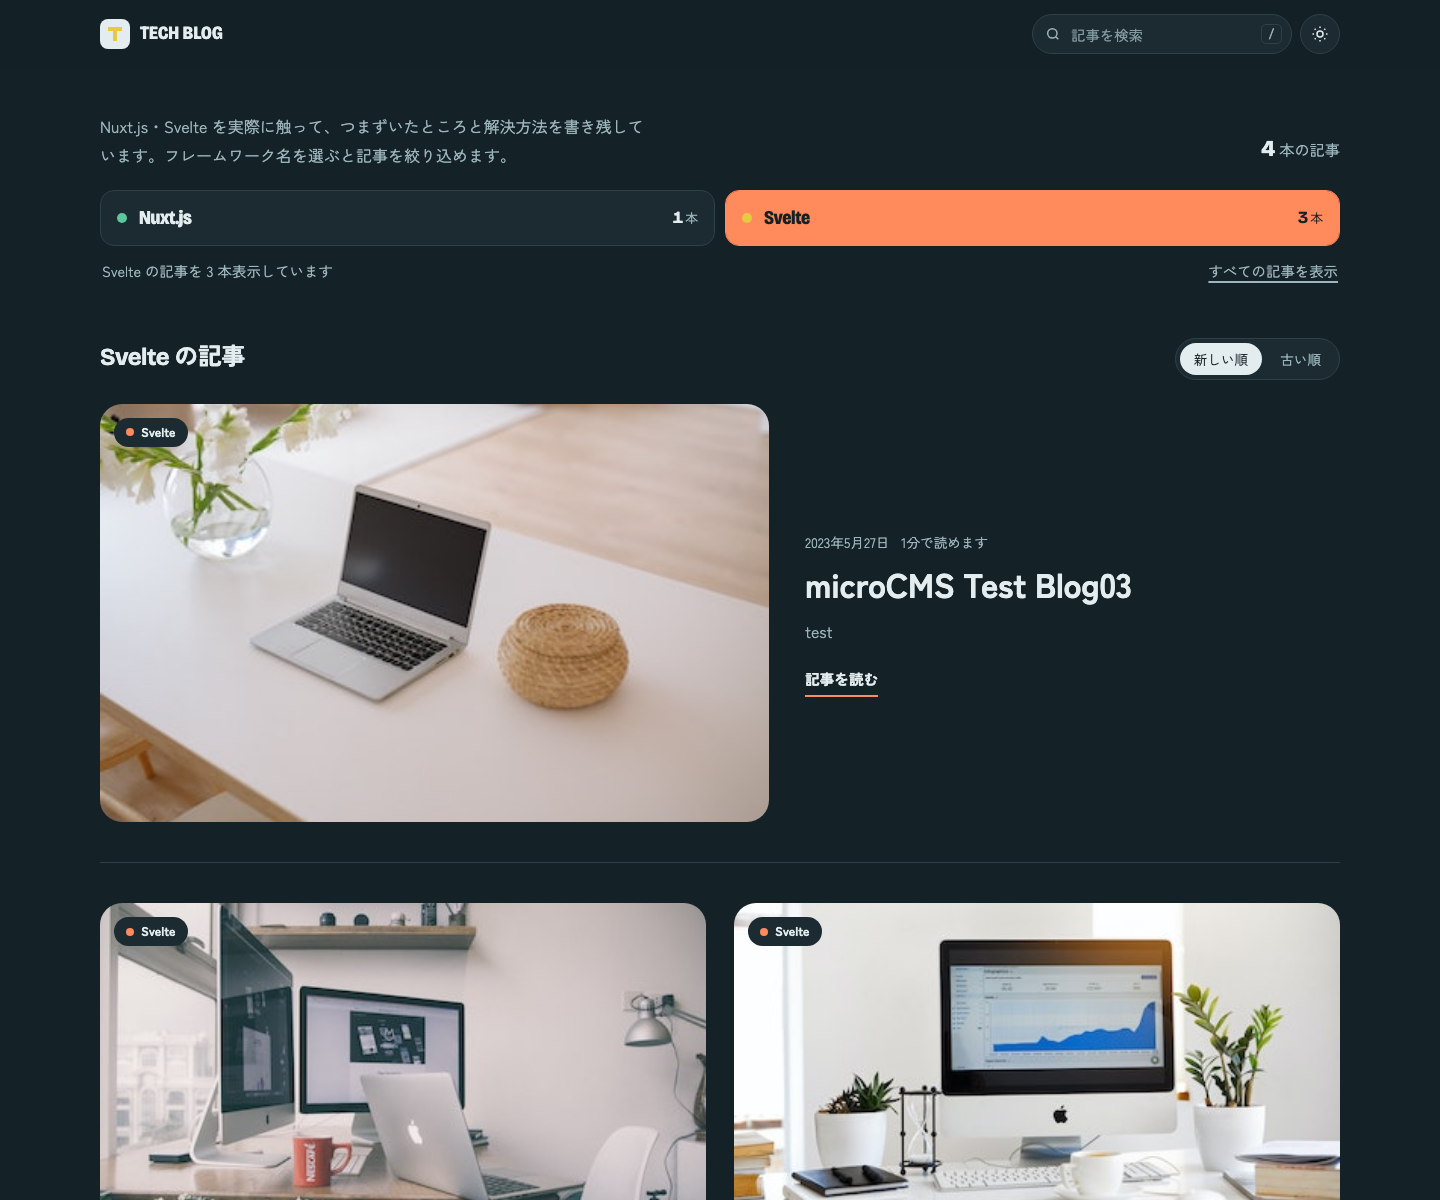
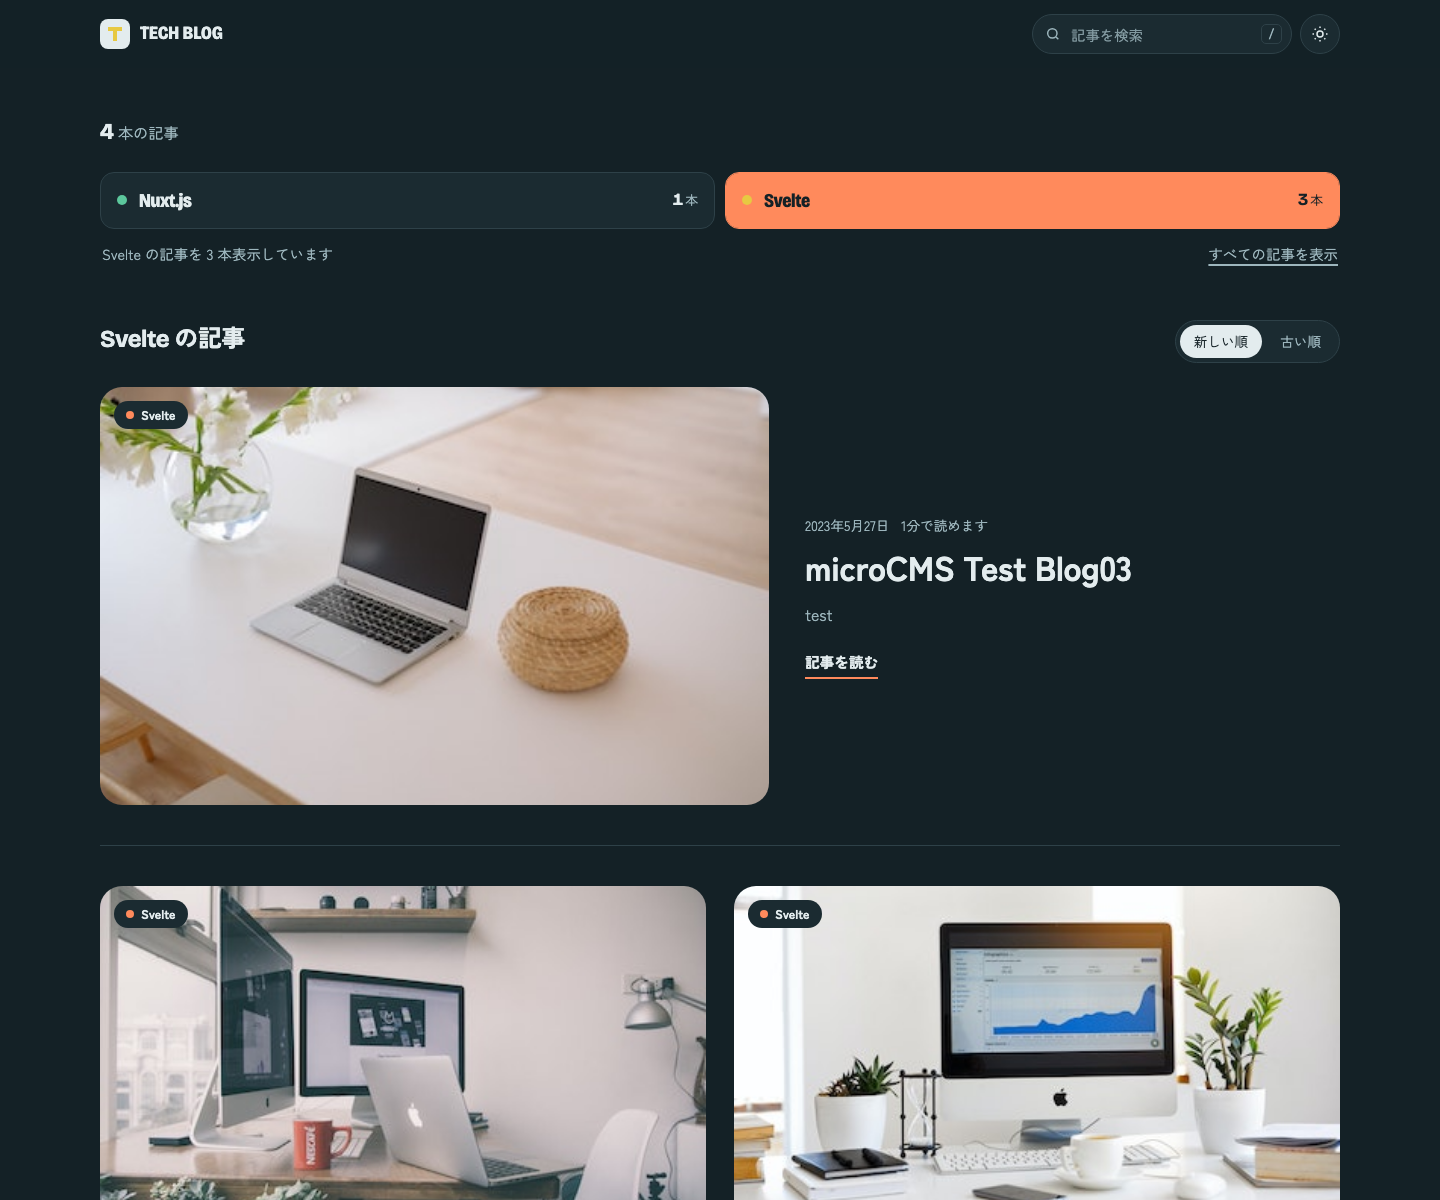
docs: README の説明と画面キャプチャを最新の表示に更新

diff --git a/README.ja.md b/README.ja.md
@@ -59,7 +59,7 @@
 
 記事の URL は `/articles/{コンテンツID}` です。
 
-カテゴリの `name` を `Next`・`Nuxt`・`Astro`・`Gatsby`・`Svelte` のいずれかにすると、対応する色で表示されます。それ以外の名前でも動作し、その場合は落ち着いたグレー系の色になります。記事が 1 本以上あるカテゴリだけを表示し、紹介文とフッターのカテゴリ名も自動で切り替わります。カテゴリの追加や変更は `src/lib/blog.ts` の `CATEGORIES` で行います。
+カテゴリの `name` を `Next`・`Nuxt`・`Astro`・`Gatsby`・`Svelte` のいずれかにすると、対応する色で表示されます。それ以外の名前でも動作し、その場合は落ち着いたグレー系の色になります。記事が 1 本以上あるカテゴリだけを表示します。カテゴリの追加や変更は `src/lib/blog.ts` の `CATEGORIES` で行います。
 
 本文中の `<h2>` は自動で目次に追加され、`<pre><code>` のコードブロックにはコピーボタンが付きます。
 

diff --git a/README.md b/README.md
@@ -59,7 +59,7 @@ Create a **list-type API** with the endpoint `blogs` and these fields:
 
 Article URLs are `/articles/{content ID}`.
 
-Use one of these category names to get the matching color: `Next`, `Nuxt`, `Astro`, `Gatsby`, `Svelte`. Other names still work and get a neutral color. Only categories with at least one article are shown, and the intro and footer text list them automatically. You can add or change categories in `CATEGORIES` in `src/lib/blog.ts`.
+Use one of these category names to get the matching color: `Next`, `Nuxt`, `Astro`, `Gatsby`, `Svelte`. Other names still work and get a neutral color. Only categories with at least one article are shown. You can add or change categories in `CATEGORIES` in `src/lib/blog.ts`.
 
 In the article body, `<h2>` headings are added to the table of contents automatically, and `<pre><code>` blocks get the copy button.
 
